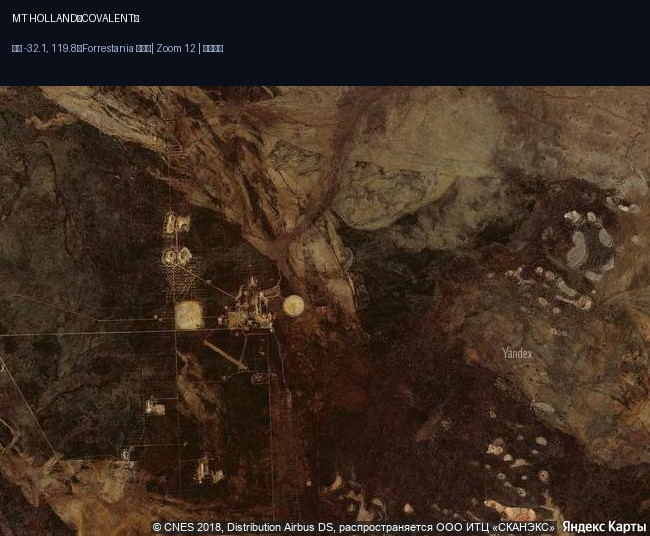
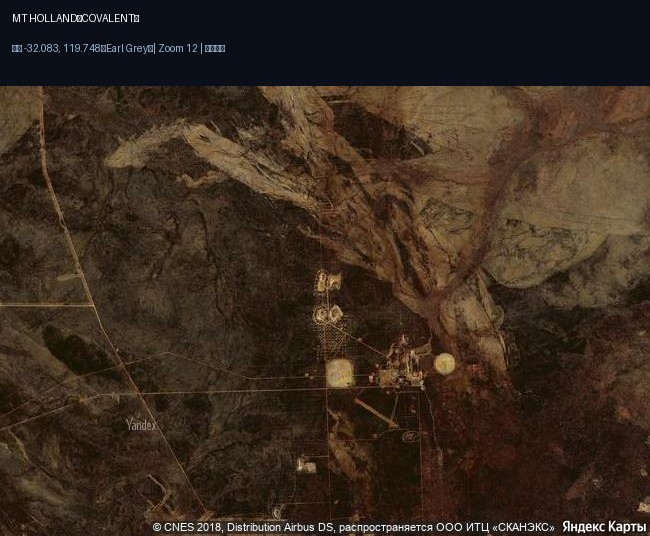
Mt Holland 数据修正（投产 2023/20-F 产量/储量 84.7/Kidman 历史链/环评编号/坐标）

diff --git a/data.js b/data.js
@@ -2733,7 +2733,7 @@ const YONGAN_DATA = {
    "mine_cn": "Mt Holland（荷兰山矿山）",
    "report": "SQM 1Q2026 Earnings Release（2026-05-27，美式季度）；SQM 4Q2025 Earnings Release（2026-03-02）；SQM & Wesfarmers Mt Holland Expansion FID 公告（2026-07-21）；SQM-I 官网 Mt Holland 页",
    "source_url": "https://sqm-i.com/what-we-do/operations-and-projects/mt-holland/",
-   "equity_note": "100% 资产基准（页面按 SQM 50% 份额 ×2 换算并标注）；Covalent Lithium = SQM（智利，NYSE: SQM，SQM-I 国际锂业务运营）+ Wesfarmers（ASX: WES）50:50 JV；**矿 + Kwinana 精炼厂一体化**（精矿 SC5.5 运至珀斯 Kwinana 转电池级氢氧化锂）；历史：Kidman Resources（ASX: KDR）2016-2018 发现/DFS → 2019 Wesfarmers 收购 Kidman + SQM JV；**美式财季（Q1-Q4）与 MM/DD/YYYY 日期格式**——最新披露 = SQM 2026Q1（2026-05-27），Q2 2026 报告 2026 年 8 月下旬发布",
+   "equity_note": "100% 资产基准（页面按 SQM 50% 份额 ×2 换算并标注）；Covalent Lithium = SQM（智利，NYSE: SQM，SQM-I 国际锂业务运营）+ Wesfarmers（ASX: WES）50:50 JV；**矿 + Kwinana 精炼厂一体化**（精矿 SC5.5 运至珀斯 Kwinana 转电池级氢氧化锂）；历史：Kidman Resources（ASX: KDR）2016 发现 Earl Grey → 2017-09-12 SQM US$110M JV 协议（50:50）→ 2018-12 IPFS + 首份储量 94.2Mt@1.5% → 2019-09-23 Wesfarmers $1.90/股收购 Kidman（~A$776M，溢价 47.3%）→ Covalent 50:50 JV；**SQM-I 为 SQM 国际锂业务分部（2024 设立，非独立上市）——SQM 本身 NYSE 上市（CIK 0000909037，Form 20-F）**；**美式财季（Q1-Q4）与 MM/DD/YYYY 日期格式**——最新披露 = SQM 2026Q1（2026-05-27），Q2 2026 报告 2026 年 8 月下旬发布；投产：首采 2022、选厂 2023Q3 调试、2023Q4 双回路首产精矿、2024 H1 首出口、2025 达名义产能 383ktpa",
    "history_labels": [
     [
      "production",
@@ -2787,8 +2787,8 @@ const YONGAN_DATA = {
       "2026Q1 满产运营确认（SQM 官方）——爬坡仅用 ~15 个月（2024 末投产 → 2026Q1 满产）",
       "Kwinana 精炼厂 2025-07 首产（一体化最后一块拼图）——2025 全年氢氧化锂 1.6kt LCE（50%），2027 达名称产能 50ktpa",
       "2025 全年精矿 156.4kt（SQM 50% = 312.8kt 100%）——首个完整生产年超预期",
-      "储量 85.6Mt @ 1.45%（Earl Grey 伟晶岩）——西澳前五伟晶岩矿床、矿山寿命 50+ 年",
-      "扩产保留 Kwinana 下游扩产选择权——矿+精炼一体化可随市场升级"
+      "储量 84.7Mt @ 1.45%（20-F 2025-12-31；官网 85.6 为 FY2024 末口径）——Earl Grey 伟晶岩西澳前五、矿山寿命 50+ 年",
+      "扩产含 ore sorting 设施：回收堆存料 +约 3Mt 精矿（LOM）——扩产保留 Kwinana 下游扩产选择权"
      ]
     }
    },
@@ -2821,12 +2821,16 @@ const YONGAN_DATA = {
       "verified": "✓ 官网 + SQM 报告双确认",
       "sources": [
        {
+        "src": "SQM 20-F FY2025",
+        "data": "concentrator nameplate 383,000 dmtpa SC 5.5% Li₂O；2023=15.0kt / 2024=232.4kt / 2025=329.6kt（100%，dmt SC5.5）；首采 2022、选厂 2023Q3 调试、2023Q4 双回路首产、2024 H1 首出口、2025 达名义产能；流程：DMS 粗粒 + 球磨/磁选/脱泥 + 浮选细粒"
+       },
+       {
         "src": "SQM-I 官网",
         "data": "hybrid Dense Media Separation (DMS) and flotation process；expected annual output of approximately 380,000 dry tonnes at 5.5% Li₂O"
        },
        {
         "src": "扩产 FID（2026-07-21）",
-        "data": "existing nameplate approximately 380,000 tpa → expansion to 760,000 tpa at 5.5% Li₂O (100% basis)；second concentrator construction H2 2027、first expansion production H1 2030；SQM share capex US$450-500M"
+        "data": "existing nameplate approximately 380,000 tpa → expansion to 760,000 tpa at 5.5% Li₂O (100% basis)；second concentrator construction H2 2027、first expansion production H1 2030；ore sorting facility 回收堆存料 +约 3Mt 精矿（LOM）；SQM share capex US$450-500M（Wesfarmers 份额 A$645-715M）"
        },
        {
         "src": "SQM 2025 全年报告",
@@ -2865,7 +2869,7 @@ const YONGAN_DATA = {
       ]
      }
     ],
-    "note": "核实时间：2026-08-05。关键结论：① 选矿厂 380ktpa SC5.5（100%）+ 扩产 FID 760ktpa（2026-07-21，2027 H2 建设、H1 2030 首产）；② Kwinana 精炼厂 50ktpa LOH（2025-07 首产、2027 达名称产能）；③ 2025 全年实际销量 312.8kt SC（100%）——满产爬坡验证；④ 2026Q1 满产运营（SQM 官方）；⑤ SQM 披露为 50% 份额（页面 ×2 = 100% 基准并标注）；⑥ 美式财季——最新披露 2026Q1（2026-05-27），Q2 2026 报告 8 月下旬。",
+    "note": "核实时间：2026-08-05。关键结论：① 选矿厂 380ktpa SC5.5（100%）+ 扩产 FID 760ktpa（2026-07-21，2027 H2 建设、H1 2030 首产）；② Kwinana 精炼厂 50ktpa LOH（2025-07 首产、2027 达名称产能）；③ 20-F 产量：2023=15kt / 2024=232.4kt / 2025=329.6kt（100%）——2025 达名义产能 86%；④ 2026Q1 满产运营（SQM 官方）；⑤ SQM 披露为 50% 份额（页面 ×2 = 100% 基准并标注）；⑥ 美式财季——最新披露 2026Q1（2026-05-27），Q2 2026 报告 8 月下旬。",
     "sources_index": {
      "公司官网": "SQM-I（sqm-i.com）Mt Holland 页",
      "公司报告": "SQM 美式季报（SEC 6-K：2025Q1-Q4、2026Q1）",
@@ -2891,7 +2895,7 @@ const YONGAN_DATA = {
      "items": [
       {
        "line": "原矿矿山：Earl Grey 露天矿",
-       "status": "✅ 生产运营中（2024 末投产）",
+       "status": "✅ 生产运营中（2023Q4 首产精矿）",
        "sources": [
         {
          "src": "SQM-I 官网",
@@ -2908,12 +2912,12 @@ const YONGAN_DATA = {
        "status": "✅ 储量确认（西澳前五）",
        "sources": [
         {
-         "src": "SQM-I 官网",
-         "data": "declared reserve of 85.6 million tonnes at 1.45% Li₂O——top five spodumene deposits in Western Australia；expected mine life over 50 years"
+         "src": "SQM 20-F FY2025（S-K1300，2025-12-31）",
+         "data": "Mineral Reserves 84.7Mt @ 1.45% Li₂O（Proven 38.5Mt@1.56% + Probable 43.7Mt@1.38% + 堆存 2.5Mt@0.89%；0.5% cut-off；冶金回收率 75%；SQM 50% = 42.4Mt；FY2024 末为 85.6Mt -1% 开采消耗）；Mineral Resource（excl. reserves）121.1Mt（0.5%/0.78% petalite cut-off）——西澳前五、矿山寿命 50+ 年"
         },
         {
-         "src": "Kidman Resources 时代（历史）",
-         "data": "Kidman 2018 年 JORC：Earl Grey 初始储量约 19.3Mt @ 1.5%（2018-06，100% 基准）——当前 85.6Mt @ 1.45% 为多年钻探后扩展"
+         "src": "Kidman 时代（历史链）",
+         "data": "2016-12-05 首份 MRE 128Mt @ 1.44%（当时 ASX 最大硬岩锂资源）→ 2018-03-19 MRE 189Mt @ 1.50%（+54%，91% M+I）→ 2018-12-18 首份 Ore Reserve 94.2Mt @ 1.5%（IPFS 伴生）"
         }
        ]
       },
@@ -2922,8 +2926,12 @@ const YONGAN_DATA = {
        "status": "✅ 已获批（矿 + 精炼厂）",
        "sources": [
         {
-         "src": "SQM-I 官网/扩产 FID",
-         "data": "necessary government and regulatory approvals have either been secured or are underway（扩产）；Kwinana 精炼厂许可（DWER Prescribed Premises）"
+         "src": "WA EPA（矿山）",
+         "data": "EPA Assessment 2123 → Ministerial Statement 1118（2019-11-21）；修订 2315 → MS 1199（2022-11-23）；LOM 扩建 2387 → EPA Report 1809（2026，EPA 建议批准、部长决定待定）；Mining Proposal Stage 2 REG 121883（2023-11）；联邦 EPBC 2017-7950"
+        },
+        {
+         "src": "WA EPA（Kwinana 精炼厂）",
+         "data": "EPA Assessment 2282 → EPA Report 1700 → Ministerial Statement 1170（2021-07-15）；DWER Works Approval W6499/2021/1（2025-04-08 修订，勿混 Tianqi 的 W5977）"
         },
         {
          "src": "Kidman 时代",
@@ -2942,7 +2950,7 @@ const YONGAN_DATA = {
        ]
       }
      ],
-     "note": "核实时间：2026-08-05。采矿侧要点：① Earl Grey 露天矿（Forrestania 地区，Perth 东 500km、Southern Cross 东南 120km）；② 储量 85.6Mt @ 1.45%（西澳前五、矿山寿命 50+ 年）；③ 矿+精炼一体化（Kwinana 50ktpa LOH）；④ 2024 末投产、2026Q1 满产（爬坡 ~15 个月）；⑤ 2026-07-21 扩产 FID（380→760ktpa）；⑥ 坐标 ≈ -32.1, 119.8（Forrestania，待精确验证）。",
+     "note": "核实时间：2026-08-05。采矿侧要点：① Earl Grey 露天矿（Forrestania 地区，Perth 东 500km、Southern Cross 东南 120km）；② 储量 84.7Mt @ 1.45%（20-F 2025-12-31；官网 85.6 为 FY2024 末）；③ 矿+精炼一体化（Kwinana 50ktpa LOH）；④ 首采 2022、2023Q4 首产精矿、2025 达名义产能 383ktpa、2026Q1 满产；⑤ 2026-07-21 扩产 FID（380→760ktpa）；⑥ 坐标 ≈ -32.083, 119.748（Kidman 钻探孔位 GDA94 Z50→WGS84 换算：KEGR001 -32.08222,119.74634；KEGM039 -32.08693,119.75211）；矿业权 M77/1065、M77/1066、M77/1080（合计 4,626 ha）。",
      "images": [
       {
        "url": "img/sat_mtholland_z13.jpg",
